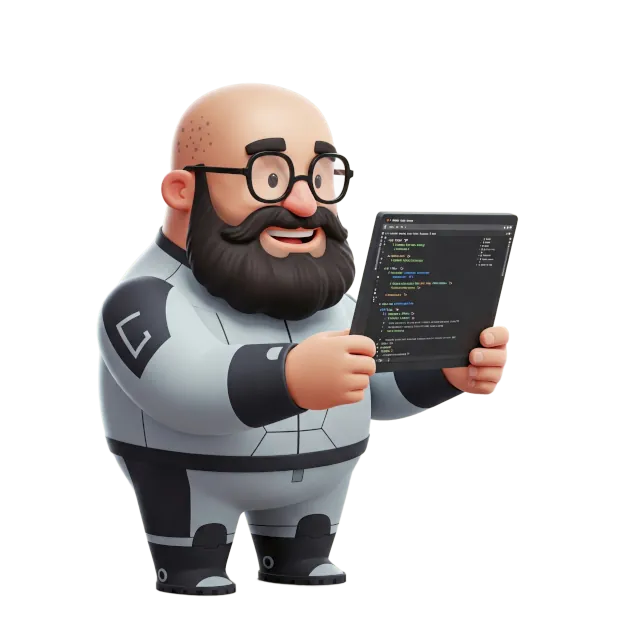
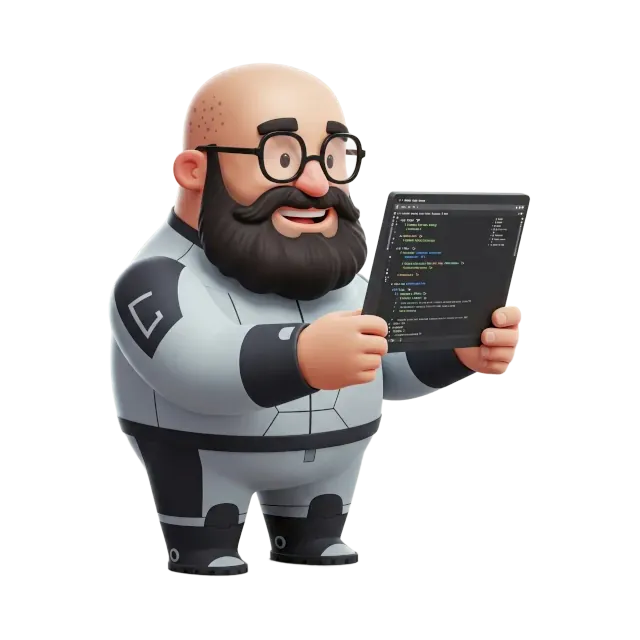
update text size and layout in various components for improved readability and consistency

Changed region(s): [[0.125, 0.0938, 0.8438, 0.9375]]

diff --git a/html/pages/services/website.vue b/html/pages/services/website.vue
@@ -1,39 +1,59 @@
 <template>
-    <div class="relative flex flex-col min-h-screen max-w-[100vw] overflow-hidden">
-      <NuxtLayout name="main" @scrollTo="scrollToSection">
-       <LazySectionHeroShot class="mb-10" titleText="Une vitrine en ligne à votre image :"
-          bottomLineText="Création de sites web sur mesure, e-commerce et vitrines"
-          subtitleText="Propulsez votre activité avec un site web professionnel, optimisé pour la performance et le référencement."
-          imageUrl="/images/pages/webSite.webp" imageAlt="Moi version cartoon 3D entrain de sauter"
-          serviceButtonText="Découvrez mes autres services" imageColorBgClass="bg-egyptian-blue-500" @scrollTo="scrollToSection" />
+  <div class="relative flex flex-col min-h-screen max-w-[100vw] overflow-hidden">
+    <NuxtLayout name="main" @scrollTo="scrollToSection">
+      <LazySectionHeroShot class="mb-10" titleText="Une vitrine en ligne à votre image :"
+        bottomLineText="Création de sites web sur mesure, e-commerce et vitrines"
+        subtitleText="Propulsez votre activité avec un site web professionnel, optimisé pour la performance et le référencement."
+        imageUrl="/images/pages/webSite--reverse.webp" imageAlt="Moi version cartoon 3D entrain de sauter"
+        serviceButtonText="Découvrez mes autres services" imageColorBgClass="bg-egyptian-blue-500"
+        @scrollTo="scrollToSection" />
 
-          <LazyContainerImageText class="mb-10" imagePosition="right" titleText="Titre" subtitleText="Sous titre"   :text="[
-    'Lorem ipsum dolor sit amet, consectetur adipiscing elit. Sed do eiusmod tempor incididunt ut labore et dolore magna aliqua.',
-    'Ut enim ad minim veniam, quis nostrud exercitation ullamco laboris nisi ut aliquip ex ea commodo consequat.',
-    'Duis aute irure dolor in reprehenderit in voluptate velit esse cillum dolore eu fugiat nulla pariatur.',
-    'Excepteur sint occaecat cupidatat non proident, sunt in culpa qui officia deserunt mollit anim id est laborum.',
-    'Lorem ipsum dolor sit amet, consectetur adipiscing elit. Sed do eiusmod tempor incididunt ut labore et dolore magna aliqua.',
-    'Ut enim ad minim veniam, quis nostrud exercitation ullamco laboris nisi ut aliquip ex ea commodo consequat.',
-      'This is the second paragraph.',
-    'This is the third paragraph (optional).'
-  ]"
-        imageUrl="/images/pages/webSite.webp" imageAlt="Moi version cartoon 3D entrain de sauter"
+        <LazyContainerImageText class="mb-10" imagePosition="left"
+        titleText="Échange, découverte et cahier des charges : poser les fondations de votre projet web"
+        subtitleText="Clarifions ensemble vos objectifs et définissons précisément votre futur site." :text="[
+          'Nous débutons par une discussion approfondie pour comprendre votre vision, vos objectifs commerciaux, votre public cible et l\'identité unique de votre marque. Cette phase d\'écoute active est cruciale pour saisir toutes les nuances de votre projet web.',
+          'Suite à cet échange, nous formalisons ensemble un cahier des charges détaillé. Ce document essentiel précisera les fonctionnalités attendues, l\'arborescence du site, les aspects graphiques souhaités et toutes les spécifications techniques nécessaires au bon déroulement du projet. Il servira de référence tout au long de notre collaboration.'
+        ]" imageUrl="/images/pages/note.webp" imageAlt="Moi version cartoon 3D entrain de sauter"
         imageColorBgClass="bg-emerald-500" />
-        
-           
-          <LazySectionServices class="mb-10" id="services" />
-        <LazySectionContact class="mb-10" id="contact" />
-  
-      </NuxtLayout>
-    </div>
-  </template>
-  
-  <script setup lang="ts">
-  const { $gsap: gsap } = useNuxtApp();
-  const config = useRuntimeConfig();
-  const websiteUrl = config.public.websiteUrl;
-  
-  useHead({
+
+        <LazyContainerImageText class="mb-10" imagePosition="right"
+        titleText="Conception et maquettes : visualiser votre présence en ligne"
+        subtitleText="Donnons forme à vos idées grâce à des maquettes claires et intuitives." :text="[
+          'Sur base du cahier des charges validé, je crée des maquettes fonctionnelles pour définir la structure et l\'ergonomie de votre site. Ensuite, des maquettes graphiques vous offriront un aperçu visuel précis du design final, en accord avec votre identité visuelle.',
+          'Vos retours sont primordiaux à cette étape. Nous itérons ensemble sur les maquettes jusqu\'à obtenir une validation complète, garantissant ainsi que la conception répond parfaitement à vos attentes avant de passer au développement.'
+        ]" imageUrl="/images/pages/design.webp" imageAlt="Moi version cartoon 3D entrain de sauter"
+        imageColorBgClass="bg-tangerine-500" />
+
+        <LazyContainerImageText class="mb-10" imagePosition="left"
+        titleText="Développement sur mesure : donner vie à votre site web"
+        subtitleText="Un développement performant et optimisé pour une expérience utilisateur optimale." :text="[
+          'Une fois la conception approuvée, je procède au développement de votre site web en utilisant les technologies les plus adaptées à vos besoins. Je m\'assure de la performance du site, de son adaptabilité à tous les écrans (responsive design) et de son optimisation pour les moteurs de recherche (seo).',
+          'Le développement est réalisé en constante référence au cahier des charges, garantissant que chaque fonctionnalité et chaque aspect technique sont mis en œuvre conformément à nos accords initiaux.'
+        ]" imageUrl="/images/pages/code.webp" imageAlt="Moi version cartoon 3D entrain de sauter"
+        imageColorBgClass="bg-egyptian-blue-500" />
+
+        <LazyContainerImageText class="mb-10" imagePosition="right"
+        titleText="Lancement et suivi : votre site est en ligne, l'accompagnement continue"
+        subtitleText="Mise en ligne réussie et support pour l'évolution de votre présence web." :text="[
+          'Après votre validation, je procède au lancement de votre site web. Je m\'assure que tout se déroule correctement et que votre présence en ligne est effective.',
+          'Je peux également vous proposer des services de maintenance, de mises à jour et de support technique pour garantir la pérennité et l\'évolution de votre site web dans le temps. Je reste à votre disposition pour toute question ou besoin futur.'
+        ]" imageUrl="/images/pages/presentation.webp" imageAlt="Moi version cartoon 3D entrain de sauter"
+        imageColorBgClass="bg-emerald-500" />
+
+
+      <LazySectionServices class="mb-10" id="services" />
+      <LazySectionContact class="mb-10" id="contact" />
+
+    </NuxtLayout>
+  </div>
+</template>
+
+<script setup lang="ts">
+const { $gsap: gsap } = useNuxtApp();
+const config = useRuntimeConfig();
+const websiteUrl = config.public.websiteUrl;
+
+useHead({
   title: 'Lugh Web - Création de sites web sur mesure',
   htmlAttrs: {
     lang: 'fr'
@@ -56,19 +76,19 @@
   link: [{ rel: "canonical", href: websiteUrl + "/services/website" }],
 });
 
-  const scrollToSection = (targetId: string) => {
-    const targetElement = document.getElementById(targetId);
-    if (targetElement) {
-      let offsetTop = targetElement.offsetTop - 100;
-      gsap.to(window, {
-        duration: 2,
-        scrollTo: { y: offsetTop, autoKill: false },
-        ease: "power2.inOut"
-      });
-    }
-  };
-  
-  onMounted(() => {
-    window.scrollTo(0, 0);
-  });
-  </script>
+const scrollToSection = (targetId: string) => {
+  const targetElement = document.getElementById(targetId);
+  if (targetElement) {
+    let offsetTop = targetElement.offsetTop - 100;
+    gsap.to(window, {
+      duration: 2,
+      scrollTo: { y: offsetTop, autoKill: false },
+      ease: "power2.inOut"
+    });
+  }
+};
+
+onMounted(() => {
+  window.scrollTo(0, 0);
+});
+</script>

diff --git a/html/components/container/imageText.vue b/html/components/container/imageText.vue
@@ -2,23 +2,21 @@
     <section class="relative flex flex-wrap about perspective-[1000px] py-10" @mousemove="imageCardInteraction"
         ref="textImageContainerSection">
         <h2
-            class="image_text_container__title order-1 w-full text-5xl lg:text-6xl text-egyptian-blue-500 blur-[15px] opacity-0 m-auto ml-0 mb-5 font-bold text-shadow-md text-shadow-white/25">
+            class="image_text_container__title order-1 w-full text-5xl text-egyptian-blue-500 blur-[15px] opacity-0 m-auto ml-0 mb-5 font-bold text-shadow-md text-shadow-white/25">
             {{ titleText }}
         </h2>
         <p
             class="image_text_container__bottomline order-2 w-full text-tangerine-500 blur-[15px] opacity-0 text-4xl  m-auto ml-0 mt-0 mb-15 font-bold text-shadow-md text-shadow-white/25">
             {{ subtitleText }}</p>
-
-
-        <div class="image_text_container__image scale-95 opacity-0 flex w-2/3 md:w-1/2 min-w-[250px] max-w-[550px] max-h-[550px] rounded-2xl m-auto"
+        <div class="image_text_container__image scale-95 opacity-0 flex w-2/3 md:w-1/2 min-w-[250px] max-w-[350px] max-h-[350px] rounded-2xl m-auto"
             @mouseenter="onMouseEnter" @mouseleave="onMouseLeave" ref="imageContainer"
-            :class="[imageColorBgClass, imagePosition === 'left' ? 'order-3' : 'order-4']">
+            :class="[imageColorBgClass, imagePosition === 'left' ? 'order-3 md:order-3' : 'order-3 md:order-4']">
             <img :src="imageUrl" :alt="imageAlt" class="m-auto h-full object-cover opacity-0 scale-95"
                 ref="imageCharacter" />
         </div>
 
-        <div class="image_text_container__container__content w-full mt-10 md:mt-auto md:w-1/2 "
-            :class="imagePosition === 'left' ? 'order-4 md:ml-auto' : 'order-3 md:mr-auto'">
+        <div class="image_text_container__container__content w-full m-auto mt-10 md:mt-auto md:w-1/2 "
+            :class="imagePosition === 'left' ? 'order-4 md:order-4 md:ml-auto' : 'order-4 md:order-3 md:mr-auto'">
             <div class="image_text_container__container__content__text flex flex-col w-full m-auto ml-0 mb-5 pointer-events-none"
                 ref="textContent">
                 <p v-for="(p, index) in text" :key="index" class="text-xl mb-5 blur-[15px] opacity-0">
@@ -132,15 +130,15 @@ const onMouseLeave = () => {
         rotateY: (10 * positionMultiplicator) + 'deg',
         rotateX: `0deg`,
         transform: `translateZ(0)`,
-        boxShadow: 2 * imageOffsetMultiplicator * positionMultiplicator + 'rem ' + 2 * imageOffsetMultiplicator + 'rem ' + 1 * imageOffsetMultiplicator + 'rem rgba(0, 0, 0, 0.25), ' + -4 * imageOffsetMultiplicator + 'rem ' + -4 * imageOffsetMultiplicator + 'rem 5rem rgba(255, 255, 255, 0.2) inset, ' + -4 * imageOffsetMultiplicator + 'rem ' + -4 * imageOffsetMultiplicator + 'rem 5rem rgba(0, 0, 0, 0.2) inset',
+        boxShadow: -2 * imageOffsetMultiplicator * positionMultiplicator + 'rem ' + 2 * imageOffsetMultiplicator + 'rem ' + 1 * imageOffsetMultiplicator + 'rem rgba(0, 0, 0, 0.25), ' + -4 * imageOffsetMultiplicator + 'rem ' + -4 * imageOffsetMultiplicator + 'rem 5rem rgba(255, 255, 255, 0.2) inset, ' + -4 * imageOffsetMultiplicator + 'rem ' + -4 * imageOffsetMultiplicator + 'rem 5rem rgba(0, 0, 0, 0.2) inset',
     });
     gsap.to(imageCharacter.value, {
         duration: 0.5,
         rotateY: (10 * positionMultiplicator) + 'deg',
         rotateX: `0deg`,
-        translateZ: 2 * imageOffsetMultiplicator * positionMultiplicator+ 'rem',
-        translateY: -1 * imageOffsetMultiplicator * positionMultiplicator+ 'rem',
-        translateX: -1 * imageOffsetMultiplicator * positionMultiplicator+ 'rem',
+        translateZ: 2 * imageOffsetMultiplicator * positionMultiplicator + 'rem',
+        translateY: -1 * imageOffsetMultiplicator * positionMultiplicator + 'rem',
+        translateX: -1 * imageOffsetMultiplicator * positionMultiplicator + 'rem',
         filter: 'drop-shadow(' + -4 * imageOffsetMultiplicator * positionMultiplicator + 'rem ' + 4 * imageOffsetMultiplicator + 'rem 2rem rgba(0, 0, 0, 0.5))',
     });
 };
@@ -165,10 +163,10 @@ const imageCardAppear = () => {
                         rotateY: (10 * positionMultiplicator) + 'deg',
                         rotateX: `0deg`,
                         scale: 1,
-                        translateZ: '2rem',
-                        translateY: '1rem',
-                        translateX: '1rem',
-                        filter: 'drop-shadow(' + (-4 * positionMultiplicator) + 'rem 4rem 2rem rgba(0, 0, 0, 0.5))',
+                        translateZ: 2 * imageOffsetMultiplicator * positionMultiplicator + 'rem',
+                        translateY: -1 * imageOffsetMultiplicator * positionMultiplicator + 'rem',
+                        translateX: -1 * imageOffsetMultiplicator * positionMultiplicator + 'rem',
+                        filter: 'drop-shadow(' + -4 * imageOffsetMultiplicator * positionMultiplicator + 'rem ' + 4 * imageOffsetMultiplicator + 'rem 2rem rgba(0, 0, 0, 0.5))',
                     });
                     gsap.to(imageContainer.value, {
                         duration: 0.5,
@@ -176,7 +174,7 @@ const imageCardAppear = () => {
                         rotateX: `0deg`,
                         scale: 1,
                         transform: `translateZ(0)`,
-                        boxShadow: (-1 * positionMultiplicator) + 'rem 1rem 2rem rgba(0, 0, 0, 0.25), 4rem 4rem 5rem rgba(255, 255, 255, 0.2) inset, -4rem -4rem 5rem rgba(0, 0, 0, 0.2) inset',
+                        boxShadow: -2 * imageOffsetMultiplicator * positionMultiplicator + 'rem ' + 2 * imageOffsetMultiplicator + 'rem ' + 1 * imageOffsetMultiplicator + 'rem rgba(0, 0, 0, 0.25), ' + -4 * imageOffsetMultiplicator + 'rem ' + -4 * imageOffsetMultiplicator + 'rem 5rem rgba(255, 255, 255, 0.2) inset, ' + -4 * imageOffsetMultiplicator + 'rem ' + -4 * imageOffsetMultiplicator + 'rem 5rem rgba(0, 0, 0, 0.2) inset',
                     });
                 },
             });
@@ -295,7 +293,11 @@ const setResolutionVariablesAndImageSize = () => {
         textElementHeight = (textImageContainerSection.value?.querySelector(
             ".image_text_container__container__content"
         ) as HTMLElement)?.offsetHeight || 0;
-        setImageHeight();
+        let height = setImageHeight();
+        if ((height ?? 0) < 300) {
+            imageOffsetMultiplicator = 0.5;
+        }
+
     }
 };
 
@@ -305,6 +307,8 @@ const setImageHeight = () => {
         textElementHeight + 50 + "px";
     imageContainer.value.style.width =
         textElementHeight + 50 + "px";
+
+    return imageContainer.value.offsetHeight;
 };
 
 onMounted(() => {

diff --git a/html/components/section/heroShot.vue b/html/components/section/heroShot.vue
@@ -6,7 +6,7 @@
         <div class="flex flex-col items-center justify-center w-full mt-10 md:mt-auto md:w-1/2 h-full m-auto ml-0 z-20">
             <div class="relative flex flex-col w-full m-auto ml-0  mb-5 pointer-events-none">
                 <h3
-                    class="heroshot__title text-5xl lg:text-6xl text-egyptian-blue-500 blur-[15px] opacity-0 m-auto ml-0 mb-5 font-bold text-shadow-md text-shadow-white/25">
+                    class="heroshot__title text-6xl text-egyptian-blue-500 blur-[15px] opacity-0 m-auto ml-0 mb-5 font-bold text-shadow-md text-shadow-white/25">
                     {{ titleText }}</h3>
                 <h1
                     class="heroshot__bottomline text-4xl text-egyptian-blue-500 blur-[15px] opacity-0 m-auto ml-0 mt-0 mb-5 font-bold text-shadow-md text-shadow-white/25">

diff --git a/html/components/section/services.vue b/html/components/section/services.vue
@@ -2,7 +2,7 @@
     <section class="services flex flex-col items-center justify-center w-full h-full" ref="servicesSection">
         <div class="flex flex-col items-center justify-center w-full h-full mb-14">
             <h2
-                class="services__title text-egyptian-blue-500 blur-[15px] opacity-0 text-5xl lg:text-6xl m-auto ml-0 mb-5 font-bold text-shadow-md text-shadow-white/25">
+                class="services__title text-egyptian-blue-500 blur-[15px] opacity-0 text-5xl m-auto ml-0 mb-5 font-bold text-shadow-md text-shadow-white/25">
                 Expertise digitale à votre service : innovons ensemble !</h2>
             <p
                 class="services__bottomline text-tangerine-500 blur-[15px] opacity-0 text-4xl  m-auto ml-0 mt-0 mb-5 font-bold text-shadow-md text-shadow-white/25">

diff --git a/html/components/section/home/technologies.vue b/html/components/section/home/technologies.vue
@@ -2,7 +2,7 @@
     <section class="technologies flex flex-col items-center justify-center w-full h-full perspective-[1000px]"
         ref="technologiesSection">
         <h2
-            class="technologies__title text-egyptian-blue-500 blur-[15px] opacity-0 w-full text-5xl lg:text-6xl m-auto ml-0 mb-15 font-bold text-shadow-md text-shadow-white/25">
+            class="technologies__title text-egyptian-blue-500 blur-[15px] opacity-0 w-full text-5xl m-auto ml-0 mb-15 font-bold text-shadow-md text-shadow-white/25">
             Un arsenal de technologies au service de vos ambitions digitales.
         </h2>
         <div class="flex flex-col items-center justify-center w-full h-full mb-14">

diff --git a/html/components/section/home/about.vue b/html/components/section/home/about.vue
@@ -2,7 +2,7 @@
     <section class="relative flex flex-wrap about perspective-[1000px] py-10" @mousemove="imageCardInteraction"
         ref="aboutSection">
         <h2
-            class="about__title order-1 w-full text-5xl lg:text-6xl text-egyptian-blue-500 blur-[15px] opacity-0 m-auto ml-0 mb-5 font-bold text-shadow-md text-shadow-white/25">
+            class="about__title order-1 w-full text-5xl text-egyptian-blue-500 blur-[15px] opacity-0 m-auto ml-0 mb-5 font-bold text-shadow-md text-shadow-white/25">
             {{ titleText }}
         </h2>
         <p
